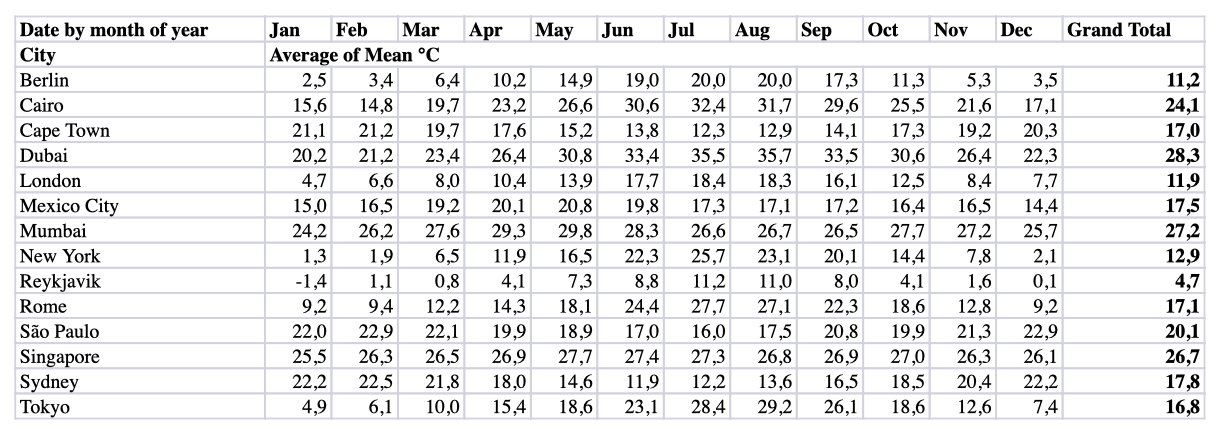
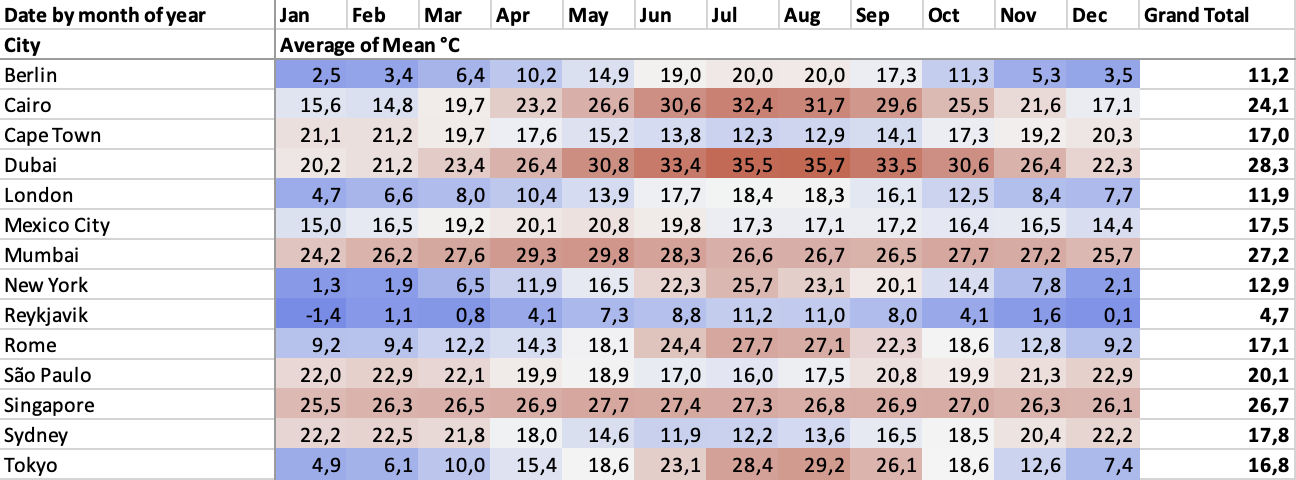
docs: show the weather workbook in Excel on the start page
The start page pictured the exported workbook in macOS Quick Look, which
shows no colour scale. The screenshot is now Excel's own view of the same
workbook, cropped to the table. Excel draws the sheet white in its dark
mode too, so light and dark stay one image.

Refs #258

diff --git a/AGENTS.md b/AGENTS.md
@@ -252,8 +252,10 @@ root `package.json`: `npm run types` and the builds depend on it.
   Markdown, `docs/assets/icon.svg` from eizedev/brand, `docs/assets/screenshots/` taken by
   `scripts/docs-screenshots.js` from the playground, except `xlsx-result-light.png` and
   `xlsx-result-dark.png` (one image twice: a workbook has no dark theme), the weather example's view
-  rendered to XLSX by the CLI and pictured by macOS Quick Look (`qlmanage -t -s 1600`, cropped to the
-  table), taken again by hand when the export's look changes. `docs/playground/` (the live demo),
+  rendered to XLSX by the CLI (`pivotkit render weather.pivotkit.json --data weather.csv -o
+  weather.xlsx`), opened in Microsoft Excel for Mac at 100 % on a Retina screen and captured as
+  Excel's window only (`screencapture -o -l <window id>`), cropped to cells A1:N16; the sheet stays
+  white in Excel's dark mode. Taken again by hand when the export's look changes. `docs/playground/` (the live demo),
   `docs/schema/`, `docs/assets/social-preview.png` and `docs/robots.txt` (all written by
   `scripts/docs-demo.js`) and `docs/assets/site.css` (the design) are build output, not committed. The theme's
   repository link in the header asks api.github.com for the repository's stars, forks and latest

diff --git a/docs/index.md b/docs/index.md
@@ -37,9 +37,9 @@ MIT · the report runs in the browser, nothing uploaded · React, web component,
 </figure>
 
 <figure markdown>
-![The same report as an Excel workbook: cities down, months across, Grand Total in bold, numbers as numbers](assets/screenshots/xlsx-result-light.png#only-light)
-![The same report as an Excel workbook: cities down, months across, Grand Total in bold, numbers as numbers](assets/screenshots/xlsx-result-dark.png#only-dark)
-<figcaption>The same report as a workbook (here in the macOS preview; Excel also shows its colour scale).</figcaption>
+![The same report as a workbook in Microsoft Excel: cities down, months across, a blue to red colour scale, Grand Total in bold, numbers as numbers](assets/screenshots/xlsx-result-light.png#only-light)
+![The same report as a workbook in Microsoft Excel: cities down, months across, a blue to red colour scale, Grand Total in bold, numbers as numbers](assets/screenshots/xlsx-result-dark.png#only-dark)
+<figcaption>The same report as a workbook in Excel, colour scale included; the numbers show in your system's format (here German, with a decimal comma).</figcaption>
 </figure>
 
 </div>
